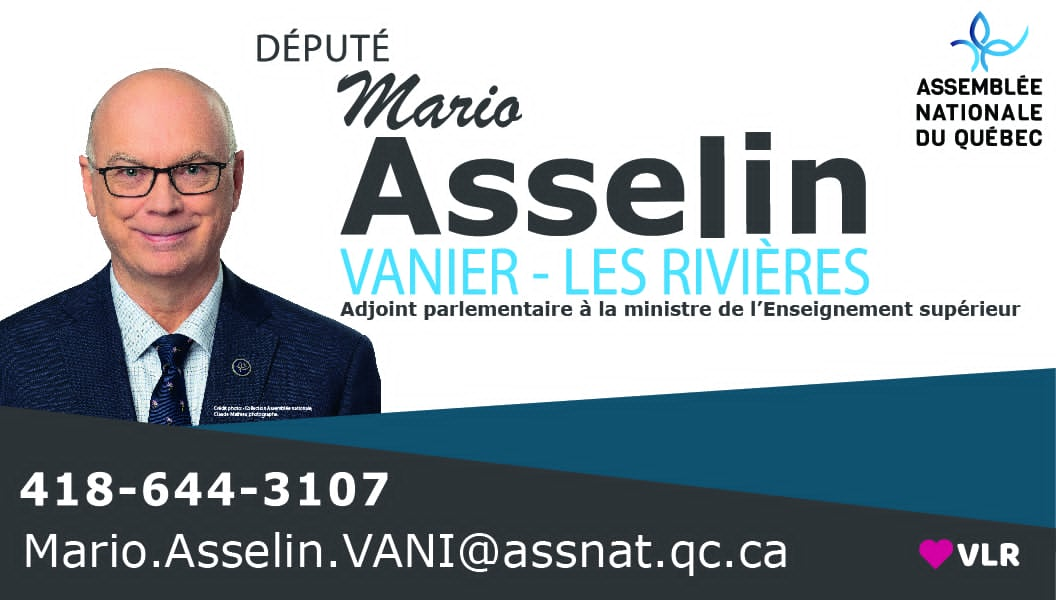
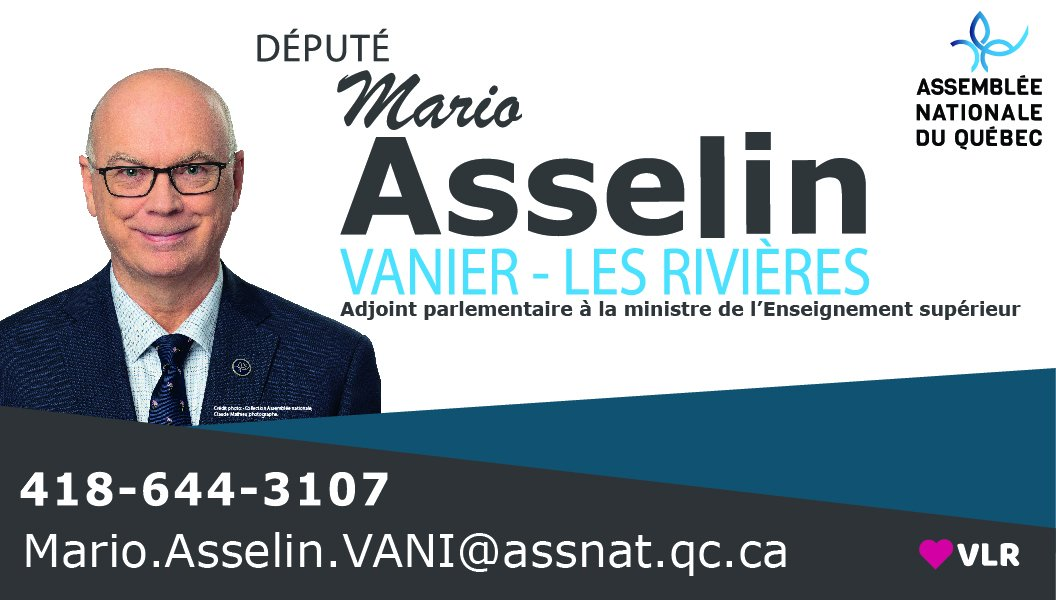
Partenaires locaux: add MNAs/MPs Jacques, Lavoie, Vien + sharper Asselin card
- New collective partner cards: Francois Jacques (Megantic, MNA),
  Steeve Lavoie (Beauport-Limoilou, MP), Dominique Vien
  (Bellechasse-Les Etchemins-Levis, MP) - image-only entries
- Replace depute-mario-asselin.jpg with the higher-quality re-drop
  (same art) and cache-bust its card path with ?v=2

diff --git a/assets/sponsors/sponsors.js b/assets/sponsors/sponsors.js
@@ -108,7 +108,7 @@ window.CDQ_SPONSORS = {
         name: "Mario Asselin",
         role_fr: "Député de Vanier–Les Rivières",
         role_en: "MNA for Vanier–Les Rivières",
-        card: "assets/sponsors/depute-mario-asselin.jpg",
+        card: "assets/sponsors/depute-mario-asselin.jpg?v=2",
         phone: "418-644-3107",
         email: "Mario.Asselin.VANI@assnat.qc.ca",
         url: null
@@ -142,10 +142,31 @@ window.CDQ_SPONSORS = {
         phone: null, email: null, url: null
       },
       {
+        name: "François Jacques",
+        role_fr: "Député de Mégantic",
+        role_en: "MNA for Mégantic",
+        card: "assets/sponsors/depute-francois-jacques.jpg",
+        phone: null, email: null, url: null
+      },
+      {
         name: "Jonatan Julien",
         role_fr: "Député de Charlesbourg",
         role_en: "MNA for Charlesbourg",
         card: "assets/sponsors/depute-jonatan-julien.jpg",
+        phone: null, email: null, url: null
+      },
+      {
+        name: "Steeve Lavoie",
+        role_fr: "Député de Beauport–Limoilou",
+        role_en: "MP for Beauport–Limoilou",
+        card: "assets/sponsors/depute-steeve-lavoie.jpg",
+        phone: null, email: null, url: null
+      },
+      {
+        name: "Dominique Vien",
+        role_fr: "Députée de Bellechasse–Les Etchemins–Lévis",
+        role_en: "MP for Bellechasse–Les Etchemins–Lévis",
+        card: "assets/sponsors/depute-dominique-vien.jpg",
         phone: null, email: null, url: null
       }
     ]
